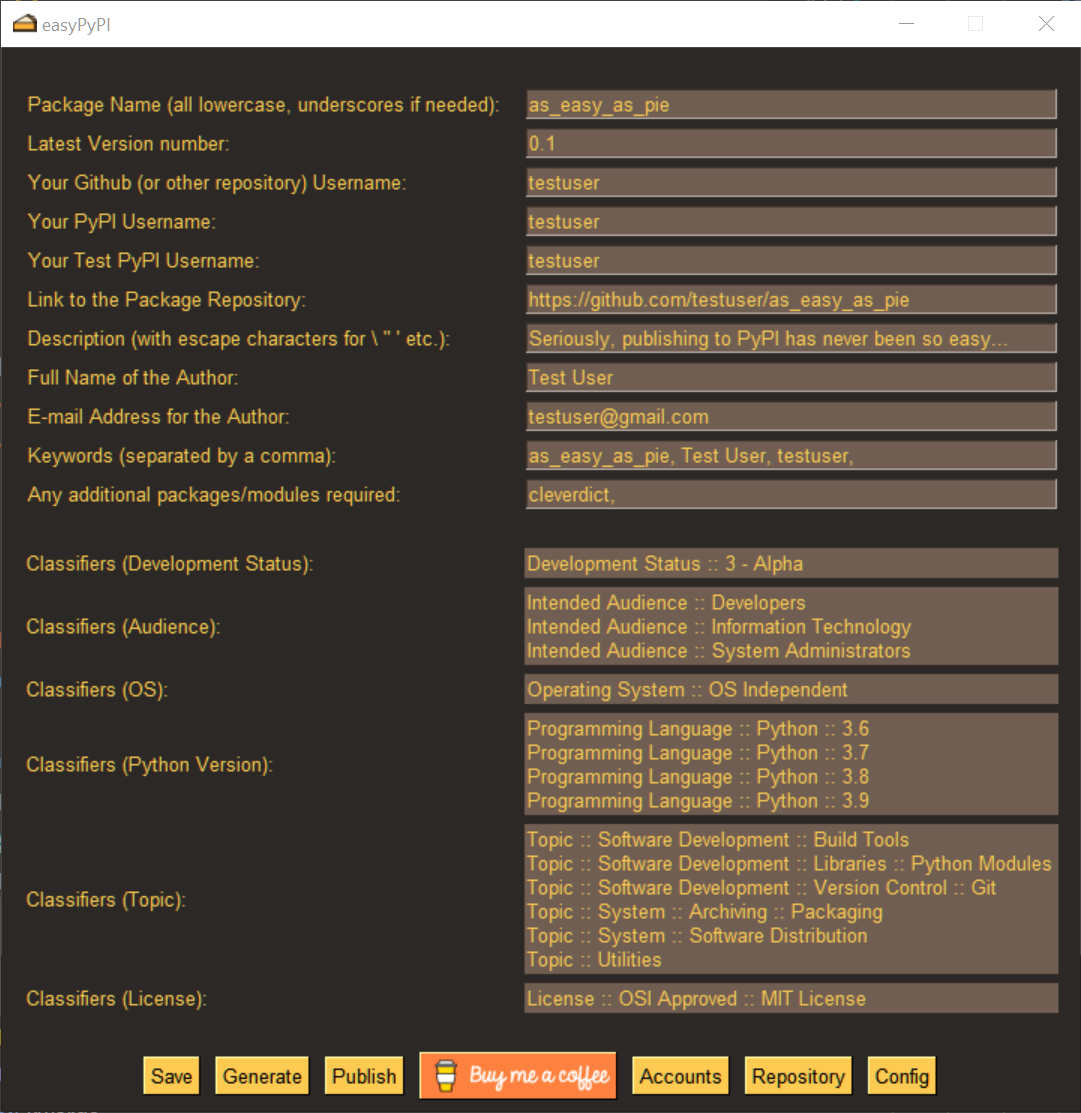
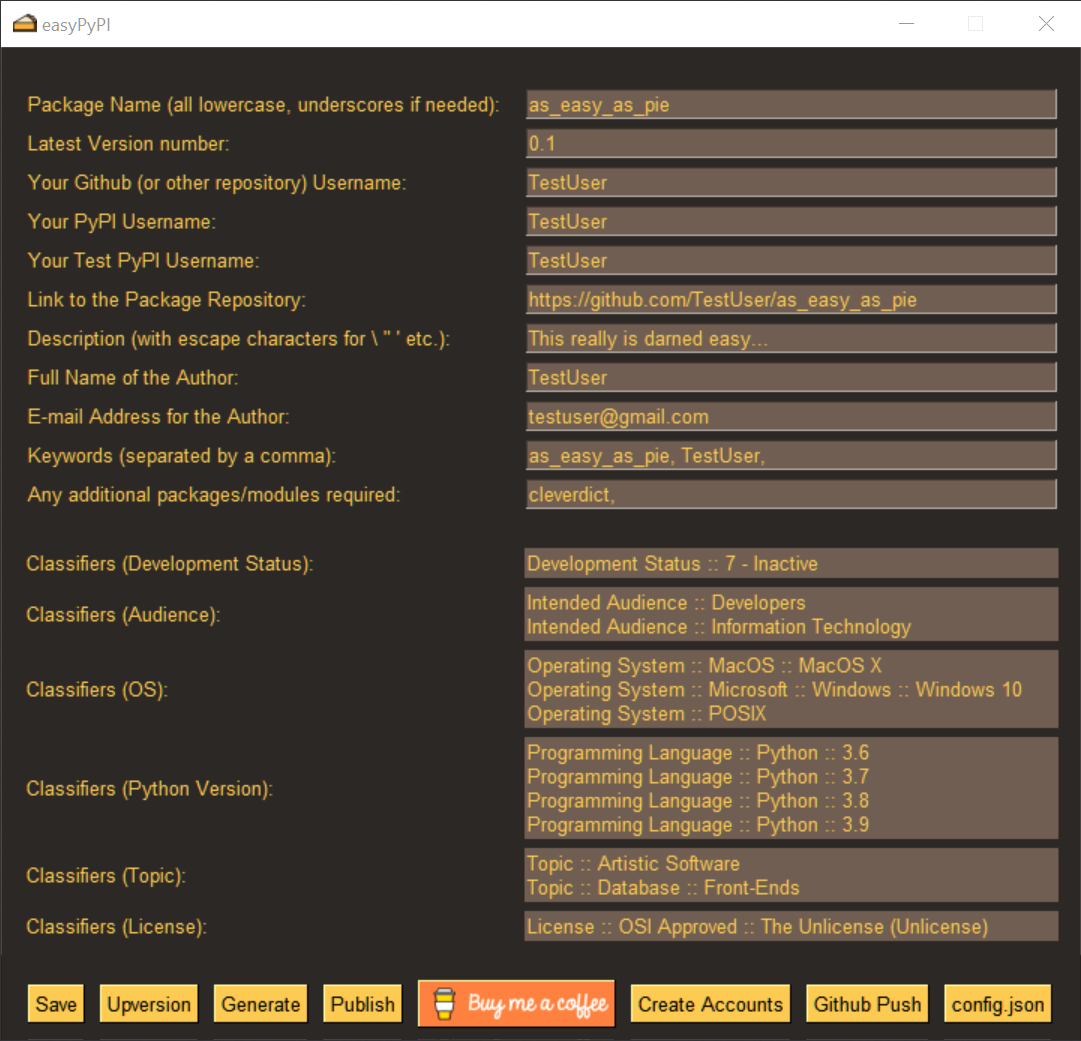
Release 1.20

diff --git a/easypypi/easypypi.py b/easypypi/easypypi.py
@@ -48,6 +48,15 @@ class Package(CleverDict):
         options, kwargs = self.get_options_from_kwargs(**kwargs)
         # ⚠ If kwargs are supplied, autosave will overwrite JSON config
         super().__init__(**kwargs)
+        if name:
+            self.name = name
+        else:
+            self.name = sg.popup_get_text(
+                "Please enter a name for this package (all lowercase, underscores if needed):",
+                default_text=self.get("name") or "as_easy_as_pie",
+                **SG_KWARGS,
+            )
+        self.load_defaults()
         print(
             f"\n ⓘ  easyPyPI template files are located in:\n  {self.__class__.easypypi_dirpath}",
             **options if kwargs.get("redirect") else {},
@@ -57,7 +66,6 @@ class Package(CleverDict):
         )
         if options["_break"] is True:
             return
-        self.load_defaults()
         # As above... must Load before Setting any other values with autosave on
         if self.name and self.get("setup_filepath_str"):
             self.get_user_input()
@@ -103,27 +111,17 @@ class Package(CleverDict):
                 options[key] = default_value
         return options, kwargs
 
-    def load_defaults(self, name=None, review=True):
+    def load_defaults(self):
         """
         Entry point for loading default Package values as attributes.
         Choose between last updated JSON config file, and setup.py if it exists.
         """
         self.create_skeleton_config_file()
-        # Important!  Defaults must be loaded from file (if possible) first:
         self.load_defaults_from_config_file()
-        if name:
-            self.name = name
-        else:
-            self.name = sg.popup_get_text(
-                "Please enter a name for this package (all lowercase, underscores if needed):",
-                default_text=self.get("name") or "as_easy_as_pie",
-                **SG_KWARGS,
-            )
-        if review and self.name:
-            self.create_folder_structure()
-            if self.setup_filepath.is_file() and self.setup_filepath.stat().st_size:
-                # setup.py exists & isn't empty, overwrite default values
-                self.load_defaults_from_setup_py()
+        self.create_folder_structure()
+        if self.setup_filepath.is_file() and self.setup_filepath.stat().st_size:
+            # If setup.py exists & isn't empty, overwrite default values
+            self.load_defaults_from_setup_py()
 
     def load_defaults_from_config_file(self):
         """
@@ -217,7 +215,7 @@ class Package(CleverDict):
                 username = keyring.get_credential(account, None).username
             except AttributeError:
                 username = sg.popup_get_text(
-                    f'Please enter your {account.replace("_", " ")} username (not saved to file):',
+                    f'Please enter your {account.replace("_", " ")} username (saved securely with `keyring`):',
                     default_text=self.get("Github_username"),
                     **SG_KWARGS,
                 )
@@ -393,8 +391,14 @@ class Package(CleverDict):
         layout += [[sg.Text(" " * 200, font="calibri 6")]]
         for group, group_text in GROUP_CLASSIFIERS.items():
             choices[group] = [x for x in CLASSIFIER_LIST if x.startswith(group)]
-            selected_choices[group] = [x for x in self.classifiers.split(", ") if x.startswith(group)]
-            if group == "Programming Language :: Python" and not selected_choices[group]:
+            self.classifiers = self.get("classifiers") or ""
+            selected_choices[group] = [
+                x for x in self.classifiers.split(", ") if x.startswith(group)
+            ]
+            if (
+                group == "Programming Language :: Python"
+                and not selected_choices[group]
+            ):
                 selected_choices[group] = [
                     x
                     for x in choices[group]
@@ -441,25 +445,29 @@ class Package(CleverDict):
         layout += [
             [sg.Text(" " * 200, font="calibri 6")],
             [
-                sg.Button("Save", tooltip="Save current values to config.json"),
-                sg.Button("Upversion", tooltip="Update Version number incrementally"),
+                sg.Button("Save", tooltip="Save current values to config.json."),
+                sg.Button("Upversion", tooltip="Update Version number incrementally."),
                 sg.Button(
-                    "Generate", tooltip="Create/update setup.py and tar.gz files"
+                    "Generate",
+                    tooltip="Create/update setup.py and tar.gz files ready for publishing.",
                 ),
                 sg.Button(
-                    "Publish", tooltip="Upload/update package on PyPI and/or TestPyPI"
+                    "Publish", tooltip="Upload/update package on PyPI and/or TestPyPI."
                 ),
                 sg.Button(
                     image_data=ICON_BUY_ME_A_COFFEE,
                     key="Coffee",
-                    tooltip="Show your appreciation for all the time you're saving with easyPyPI",
+                    tooltip="Show your appreciation for all the time you're saving with easyPyPI.",
                 ),
                 sg.Button(
-                    "Accounts",
-                    tooltip="Create an account on PyPI, TestPyPI and/or Github",
+                    "Create Accounts",
+                    tooltip="Create an account on PyPI, TestPyPI and/or Github.",
                 ),
-                sg.Button("Github", tooltip="Create an initial repository on Github"),
-                sg.Button("Config", tooltip="Open/Edit config.json file"),
+                sg.Button(
+                    "Github Push",
+                    tooltip="Automatically create an initial repository on Github.",
+                ),
+                sg.Button("config.json", tooltip="Open/Edit your config.json file."),
             ],
         ]
         return layout

diff --git a/setup.py b/setup.py
@@ -8,7 +8,7 @@ from setuptools import setup
 HERE = Path(__file__).parent
 NAME = "easypypi"
 GITHUB_USERNAME = "Pfython"
-VERSION = "1.19"
+VERSION = "1.20"
 DESCRIPTION = "easyPyPI is THE easiest and quickest way to publish your Python creations on the Python Package Index (PyPI) so other people can just `pip install your_script`."
 LICENSE = "MIT License"
 AUTHOR = "Peter Fison"

diff --git a/README.md b/README.md
@@ -33,24 +33,34 @@ Enjoy!
     >>> from easypypi import Package
     >>> package = Package()
 
+    # or:
+    >>> package = Package("your_package_name")
+
 Then just follow the prompts to provide the information required to describe your package on **PyPI**.  No knowledge of `setuptools`, `twine`, or how to write a `setup.py` script required.
 
 ![](https://media.giphy.com/media/Nw8z2olm0nGHC/giphy.gif)
 
+Once you've gone through the creation process fully (or even partially), click the `Save` button to store your responses in a JSON config file located in the recommended settings folder for your Operating System.  When you start again `easyPyPI` will helpfully remember your previous answers.
+
+![](https://github.com/PFython/easypypi/blob/main/screenshot.png?raw=true)
+
+When you've added all the information you want to include with your package, click the `Generate` button to create a basic folder structure and populate it with all the standard files you'll need such as a README and LICENSE.
+
+The next time you run `easyPyPI` with an existing package name and folder location, it will automatically import the contents of the latest `setup.py` file it finds(in preference to `config.json`), so if you want you can make updates directly to `setup.py` but be careful to keep the same basic format so `easyPyPI` has a chance of finding what it needs!
+
 # 2. UPDATING YOUR PACKAGE
 
-Once you've gone through the creation process fully (or even partially) you can start again by simply creating a new object with the same name, and `easyPyPI` will import your previous answers based on the latest `setup.py` you created.
+For more precise control you can close the GUI after creating your `package` object, and manually get and set all of the data encapsulated in it.  Thanks to the magic of [`cleverdict`](https://github.com/pfython/cleverdict) you can do this *either* using `object.attribute` or `dictionary['key']` notation, whichever you prefer:
 
-For more precise control you can manually get and set all of the data encapsulated in your `package` object.  Thanks to the magic of [`cleverdict`](https://github.com/pfython/cleverdict) you can do this *either* using `object.attribute` or `dictionary['key']` notation, whichever you prefer:
+    >>> package.name
+    'as_easy_as_pie'
 
     >>> package['email'] = "new@name.com"
+
     >>> package['license_dict'].name
     'MIT License'
-    >>> package.version = "2.0"
-    >>> package.next_version
-    '2.1'
 
-Your last set of answers (except passwords) are stored in a JSON config file will be kept up to date automatically when you change values.  The location defaults to the recommended setting folder for your Operating System.
+    >>> package.version = "2.0"
 
 # 3. OTHER FEATURES
 
@@ -60,7 +70,7 @@ Automatically generate the next version number for your `Package` (more schemas 
     >>> package.next_version
     '1.11'
 
-To find where easyPyPI and its default templates were installed:
+To find where `easyPyPI` and its default templates were installed:
 
     >>> package.easypypi_dirpath
 
@@ -103,21 +113,20 @@ To see what else you can play with using your `Package` object:
 
 If you want to contribute code, please follow this simple process:
 
-- Fork this repository. Also STAR this repository for bonus karma!
-- Create a new Branch for the issue or feature you're working on.
+- **Fork** this repository. Also STAR this repository for bonus karma!
+- Create a new **Branch** for the issue or feature you're working on.
 - Create a separate `test_xyz.py` script to accompany any changes you make, and document your tests (and any new code) clearly enough that they'll tell us everything we need to know about your rationale and implementation approach.
-- When you're ready and the new code passes all your tests, create a Pull Request from your Branch back to the Main Branch of this repository.
+- When you're ready and the new code passes all your tests, create a **Pull Request** from your **Branch** back to the **Main Branch** of this repository.
 
-If you'd be kind enough to follow that approach we think it'll help speed things on their way and cause less brain-ache all round. Thank you, and I can't wait to hear your thoughts!
+If you'd be kind enough to follow that approach it'll help speed things on their way and cause less brain-ache all round. Thank you, and we can't wait to hear people's ideas!
 
-You can also get in contact on [Twitter](https://twitter.com/appawsom) and we're currently dabbling with the [CodeStream](https://marketplace.visualstudio.com/items?itemName=CodeStream.codestream) extension for VS Code which seems to have some helpful collaborative features, so perhaps we can connect with that too?
+You can also get in contact on [Twitter](https://twitter.com/appawsom), and we're currently dabbling with the [CodeStream](https://marketplace.visualstudio.com/items?itemName=CodeStream.codestream) extension for VS Code which seems to have some helpful collaborative features, so perhaps we can connect with that too?
 
 # 5. PAYING IT FORWARD
 
-If `easyPyPI` helps you save time and focus on more important things, please feel free to to show your appreciation by starring the repository on Github!
-
-I'd also be delighted if anyone wants to:
+If `easyPyPI` helps you save time and focus on more important things, please show your appreciation by at least starring this repository on Github or even better:
 
 <a href="https://www.buymeacoffee.com/pfython" target="_blank"><img src="https://cdn.buymeacoffee.com/buttons/v2/arial-yellow.png" alt="Buy Me A Coffee" width="217px" ></a>
 
+Yummy - thank you!
 
